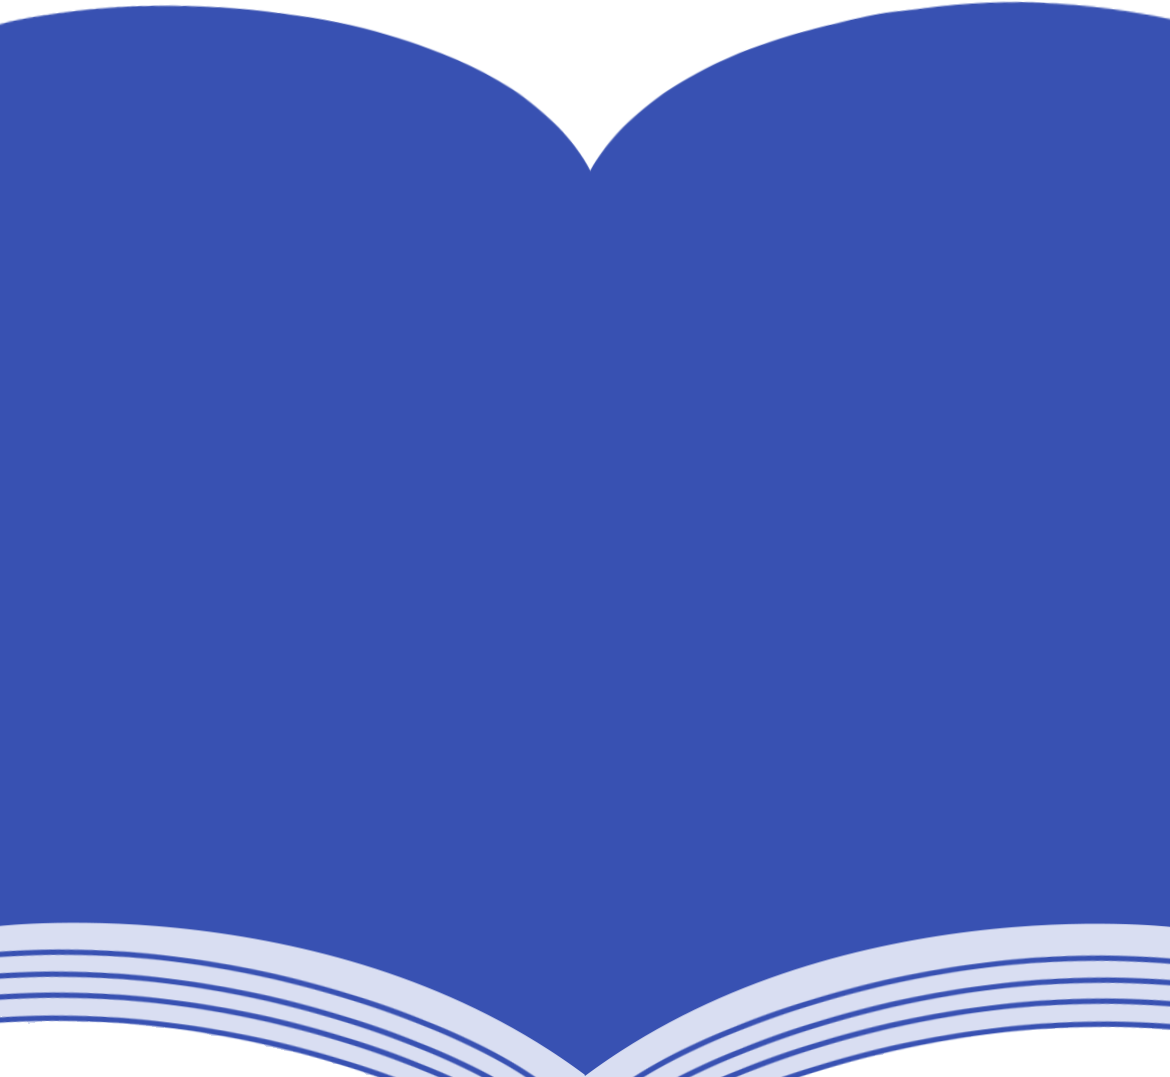
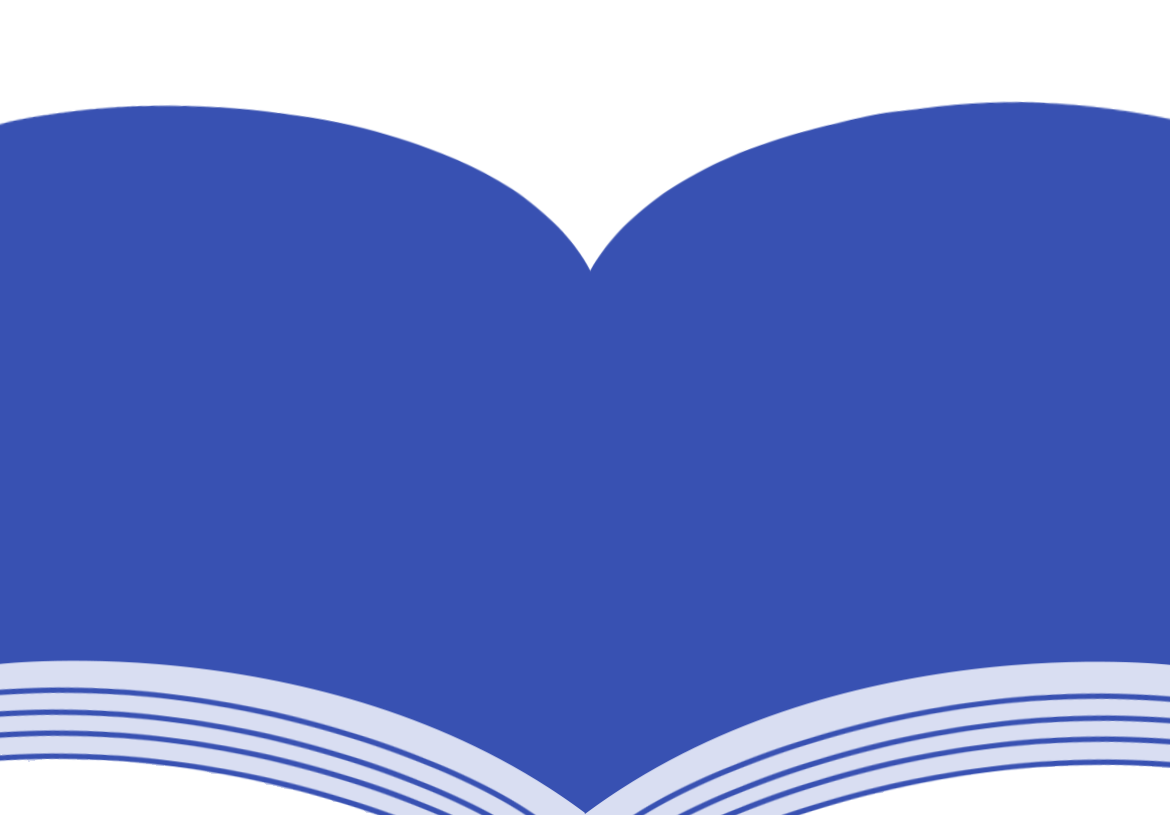
feat(carousel): add carousel

diff --git a/src/pages/cover/CoverPage.js b/src/pages/cover/CoverPage.js
@@ -5,8 +5,9 @@ import {
   View,
   ScrollView,
   ImageBackground,
+  Image,
 } from "react-native";
-import { Button, WingBlank, Flex } from "@ant-design/react-native";
+import { Button, WingBlank, Flex, Carousel } from "@ant-design/react-native";
 
 const Circle = (props) => {
   const style = {
@@ -19,21 +20,11 @@ const Circle = (props) => {
   return <View style={style}></View>;
 };
 
-const Square = (props) => {
-  const style = {
-    backgroundColor: "#A1B4FF",
-    width: 220,
-    height: 280,
-    margin: 1,
-  };
-  return <View style={style}></View>;
-};
-
 const styles = StyleSheet.create({
   book: {
     width: 420,
     height: 420,
-    marginTop: 30,
+    marginTop: -50,
     bottom: 0,
   },
   anti: {
@@ -41,7 +32,7 @@ const styles = StyleSheet.create({
     textAlign: "center",
     fontSize: 50,
     letterSpacing: 30,
-    marginTop: 100,
+    marginTop: 150,
     marginLeft: 30,
   },
   text: {
@@ -59,6 +50,16 @@ const styles = StyleSheet.create({
     width: 134,
     height: 54,
   },
+  wrapper: {
+    height: 350,
+  },
+  graph: {
+    height: 350,
+    width: 280,
+    flexGrow: 1,
+    alignItems: 'center',
+    justifyContent: 'center',
+  }
 });
 
 function CoverPage({ navigation }) {
@@ -69,7 +70,20 @@ function CoverPage({ navigation }) {
           <Circle />
         </View>
         <Flex justify="center">
-          <Square />
+          <View style={{ width: 280, height: 350, backgroundColor: "#fff", marginTop: 20}}>
+            {/* 走马灯 */}
+            <Carousel style={styles.wrapper} selectedIndex={0} autoplay infinite>
+              <View>
+                <Image style={styles.graph} source={require("../../assets/imgs/cover1.png")}></Image>
+              </View>
+              <View>
+                <Image style={styles.graph} source={require("../../assets/imgs/cover2.png")}></Image>
+              </View>
+              {/* <View>
+              <Image style={styles.graph} source={require("../../assets/imgs/home.png")}></Image>
+              </View> */}
+            </Carousel>
+          </View>
         </Flex>
       </WingBlank>
       <WingBlank size="lg">

diff --git a/src/pages/exam/examPage.js b/src/pages/exam/examPage.js
@@ -1,7 +1,6 @@
 import React from "react";
 import {
   StyleSheet,
-  Text,
   View,
   ScrollView,
   ImageBackground,
